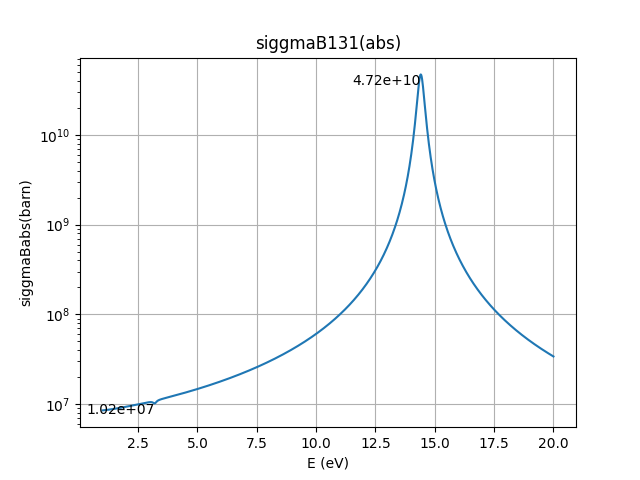
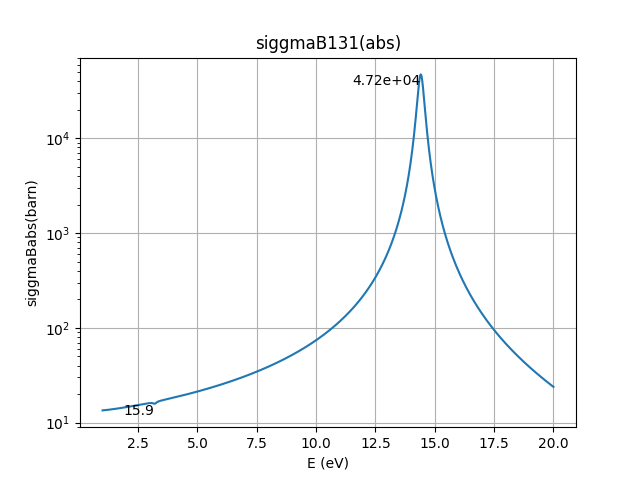
com

diff --git a/ReImB.py b/ReImB.py
@@ -6,8 +6,8 @@ import constHe
 import pandas as pd
 
 def Gamma129(E):
-    gnGamma_0 = const129.gnGamma_0*np.sqrt(E/np.abs(const129.E_0))
-    gnGamma_1 = const129.gnGamma_1*np.sqrt(E/const129.E_1)
+    gnGamma_0 = 23.09*10**(-3)
+    gnGamma_1 = 2.99*10**(-3)
 
     nGamma_0 = gnGamma_0/(2*const129.g0)
     nGamma_1 = gnGamma_1/(2*const129.g1)
@@ -19,9 +19,9 @@ def Gamma129(E):
 
 
 def Gamma131(E):
-    gnGamma_0 = const131.gnGamma_0*np.sqrt(E)
-    gnGamma_1 = const131.gnGamma_1*np.sqrt(E/const131.E_1)
-    gnGamma_2 = const131.gnGamma_2*np.sqrt(E/const131.E_2)
+    gnGamma_0 = 2.93*10**(-3)
+    gnGamma_1 = const131.gnGamma_1*np.sqrt(1/const131.E_1)
+    gnGamma_2 = 70.6*10**(-3)
 
     nGamma_0 = gnGamma_0/(2*const131.g0)
     nGamma_1 = gnGamma_1/(2*const131.g1)
@@ -35,17 +35,17 @@ def Gamma131(E):
 
 def ImB_131Xe(E):
     nGamma_0, nGamma_1, nGamma_2, Gamma_0, Gamma_1, Gamma_2 = Gamma131(E)
-    k = 0.6947*np.sqrt(E*10**(-3))*10**10
+    k = 0.6947*np.sqrt(E*10**3)*10**10
     
     return 3/(64*k)*(((4*nGamma_2*(2*k*(E-const131.E_2)*const131.R_0-(Gamma_2/2)))/((E-const131.E_2)**2+(Gamma_2/2)**2))-((4*nGamma_0*(2*k*(E-const131.E_0)*const131.R_0-(Gamma_0/2)))/((E-const131.E_0)**2+(Gamma_0/2)**2)))+3/(64*k)*((7*nGamma_1*Gamma_1)/(2*((E-const131.E_1)**2+(Gamma_1/2)**2)))
 
 def siggmaB131(E):
-    k = 0.6947*np.sqrt(E*10**(-3))*10**10
+    k = 0.6947*np.sqrt(E*10**3)*10**10
 
     return (4*np.pi/k)*ImB_131Xe(E)*10**28     #スピン依存する断面積（barn） 
 
 def siggmaB131abs(E):
-    k = 0.6947*np.sqrt(E*10**(-3))*10**10
+    k = 0.6947*np.sqrt(E*10**3)*10**10
 
     return np.abs((4*np.pi/k)*ImB_131Xe(E)*10**28)     #スピン依存する断面積（barn） 
 
@@ -76,7 +76,7 @@ def epsilon131(E):
     #return 1*np.tanh(1*const131.num_131*5*10**(-2)*(4*np.pi/k)*10**(-28)*ImB_131Xe(E))      #もし偏極率が１００％なら
 
 def epsilon129(E):
-    k = 0.6947*np.sqrt(E*10**(-3))*10**10
+    k = 0.6947*np.sqrt(E*10**3)*10**10
     return 0.17*np.tanh(1.9*10**(-2)*const129.num_129*10*10**(-2)*(4*np.pi/k)*ImB_129Xe(E))
     #return 0.17*np.tanh(0.17*const129.num_129*10*10**(-2)*(4*np.pi/k)*10**(-28)*ImB_129Xe(E))  #偏極率が１７％なら
     #return 1*np.tanh(1*const129.num_129*10*10**(-2)*(4*np.pi/k)*10**(-28)*ImB_129Xe(E))    #もし偏極率が１００％なら

diff --git a/graphep131.py b/graphep131.py
@@ -18,8 +18,8 @@ plt.ylabel('epsilon131(E)')
 plt.title('epsilon131(E) vs E')
 plt.grid(True)
 
-plt.scatter([14.41], [ReImB.epsilon131(14.41)])
-plt.scatter([3.20], [ReImB.epsilon131(3.20)])
+closest_index = np.argmin(np.abs(E_values - 14.41))
+closest_index = np.argmin(np.abs(E_values - 3.20))
 
 plt.text(14.41, ReImB.epsilon131(14.41), f'y={ReImB.epsilon131(14.41):.3g}', ha='right', va='bottom')
 plt.text(3.20, ReImB.epsilon131(3.20), f'y={ReImB.epsilon131(3.20):.3g}', ha='right', va='bottom')

diff --git a/const131.py b/const131.py
@@ -6,7 +6,8 @@ E_1 = 3.2
 E_2 = 14.41
 E_He = -211*10**3
 
-gnGamma_0 = 2.93*10**(-3) #1 eVでの2gGamma.
+#gnGamma_0 = 2.93*10**(-3) #1 eVでの2gGamma.
+gnGamma_0 = 2.93*10**(-3)*np.sqrt(np.abs(E_0)) #|E_0|eVでの2gGamma.
 gnGamma_1 = 3.2*10**(-7) #E_1での2gGamma.
 gnGamma_2 = 2.68*10**(-1) #E_2での2gGamma.
 nGamma_He = 954.4

diff --git a/graphep129.py b/graphep129.py
@@ -17,7 +17,7 @@ plt.ylabel('epsilon129(E)')
 plt.title('epsilon129(E) vs E')
 plt.grid(True)
 
-plt.scatter([9.57], [ReImB.epsilon129(9.54)])
+closest_index = np.argmin(np.abs(E_values - 9.57))
 
 plt.text(9.57, ReImB.epsilon129(9.57), f'y={ReImB.epsilon129(9.57):.3g}', ha='right', va='bottom')
 plt.savefig('asym_129Xe.png')  
